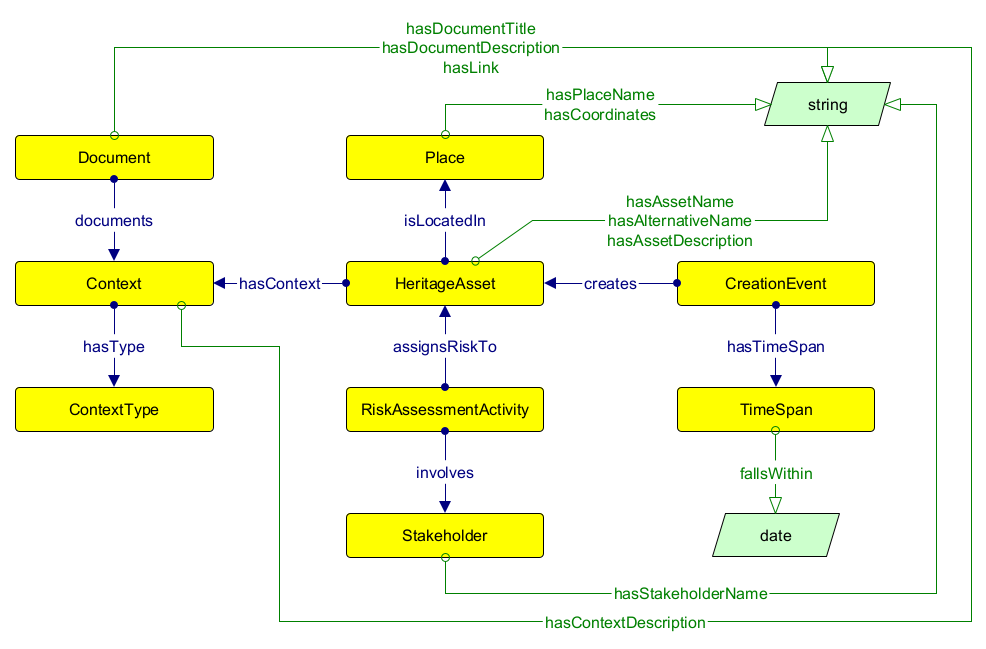
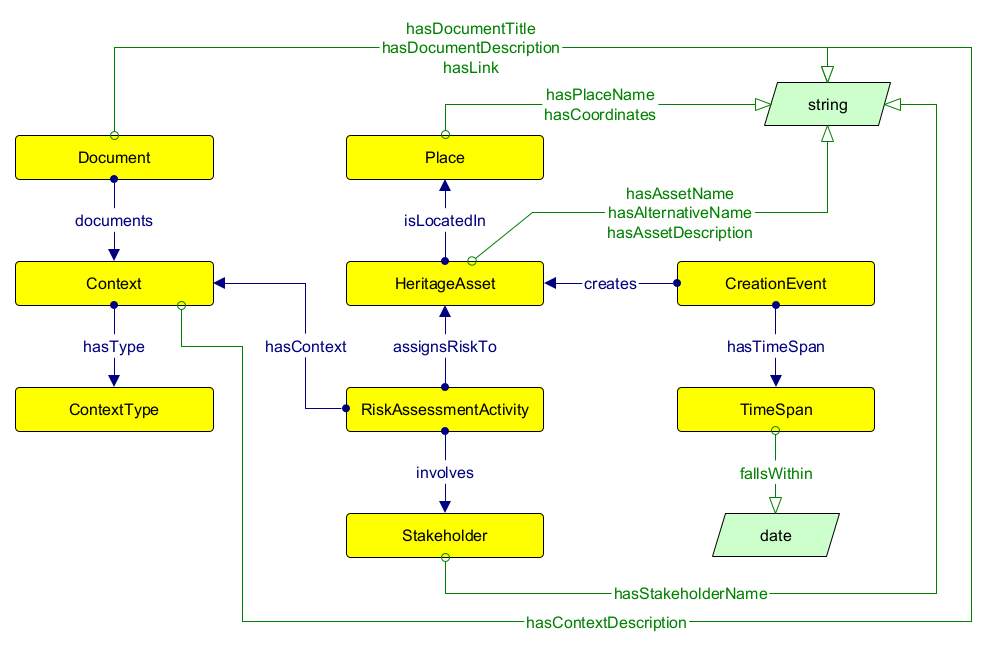
fix: fix glossary, modelet and readme

diff --git a/data_model/development/01/crosswalk.md b/data_model/development/01/crosswalk.md
@@ -1,42 +1,40 @@
-# Crosswalk
-
-|                       | **TBox term**            | **Refactored term**           | **Full URI**                                                     |
-|-----------------------|--------------------------|-------------------------------|------------------------------------------------------------------|
-| **Classes**           |                          |                               |                                                                  |
-|                       | `HeritageAsset`          | E24_Physical_Human-Made_Thing | http://www.cidoc-crm.org/cidoc-crm/E24_Physical_Human-Made_Thing |
-|                       | `Context`                |                               |                                                                  |
-|                       | `ContextType`            |                               |                                                                  |
-|                       | `Place`                  | E53_Place                     | http://www.cidoc-crm.org/cidoc-crm/E53_Place                     |
-|                       | `Stakeholder`            | E39_Actor                     | http://www.cidoc-crm.org/cidoc-crm/E39_Actor                     |
-|                       | `RiskAssessmentActivity` |                               |                                                                  |
-|                       | `TimeSpan`               | E52_Time-Span                 | http://www.cidoc-crm.org/cidoc-crm/E52_Time-Span                 |
-|                       | `Document`               | E31_Document                  | http://www.cidoc-crm.org/cidoc-crm/E31_Document                  |
-|                       | `CreationEvent`          | E12_Production                | http://www.cidoc-crm.org/cidoc-crm/E12_Production                |
-| **Object properties** |                          |                               |                                                                  |
-|                       | `hasContext`             |                               |                                                                  |
-|                       | `documents`              | P70_documents                 | http://www.cidoc-crm.org/cidoc-crm/P70_documents                 |
-|                       | `hasType`                | P2_has_type                   | http://www.cidoc-crm.org/cidoc-crm/P2_has_type                   |
-|                       | `assignsRiskTo`          |                               |                                                                  |
-|                       | `involves`               | P11_had_participant           | http://www.cidoc-crm.org/cidoc-crm/P11_had_participant           |
-|                       | `isLocatedIn`            | P55_has_current_location      | http://www.cidoc-crm.org/cidoc-crm/P55_has_current_location      |
-|                       | `creates`                | P108_has_produced             | http://www.cidoc-crm.org/cidoc-crm/P108_has_produced             |
-|                       | `hasTimeStamp`           | P4_has_time-span              | http://www.cidoc-crm.org/cidoc-crm/P4_has_time-span              |
-| **Data properties**   |                          |                               |                                                                  |
-|                       | `hasAssetName`           | title                         | http://purl.org/dc/terms/title                                   |
-|                       | `hasAlternativeName`     | alternative                   | http://purl.org/dc/terms/alternative                             |
-|                       | `hasAssetDescription`    | description                   | http://purl.org/dc/terms/description                             |
-|                       | `hasCoordinates`         | P168_place_is_defined_by      | http://www.cidoc-crm.org/cidoc-crm/P168_place_is_defined_by      |
-|                       | `fallsWithin`            | P82_at_some_time_within       | http://www.cidoc-crm.org/cidoc-crm/P82_at_some_time_within       |
-|                       | `hasTitle`               | title                         | http://purl.org/dc/terms/title                                   |
-|                       | `hasDocumentDescription` | description                   | http://purl.org/dc/terms/description                             |
-|                       | `hasPlaceName`           |                               |                                                                  |
-|                       | `hasStakehoderName`      | name                          | http://xmlns.com/foaf/0.1/name                                   |
-|                       | `hasLink`                | relation                      | http://purl.org/dc/terms/relation                                |
-|                       | `hasContextDescription`  | description                   | http://purl.org/dc/terms/description                             |
-| **Individuals**       |                          |                               |                                                                  |
-|                       | `physical`               |                               |                                                                  |
-|                       | `socio-cultural`         |                               |                                                                  |
-|                       | `political`              |                               |                                                                  |
-|                       | `legal`                  |                               |                                                                  |
-|                       | `administrative`         |                               |                                                                  |
-|                       | `economic`               |                               |                                                                  |
+|                       | **TBox term**            | **Model** | **Refactored term**           | **Full URI**                                                     |
+|-----------------------|--------------------------|-----------|-------------------------------|------------------------------------------------------------------|
+| **Classes**           |                          |           |                               |                                                                  |
+|                       | `HeritageAsset`          | CIDOC-CRM | E24_Physical_Human-Made_Thing | http://www.cidoc-crm.org/cidoc-crm/E24_Physical_Human-Made_Thing |
+|                       | `Context`                |           |                               |                                                                  |
+|                       | `ContextType`            |           |                               |                                                                  |
+|                       | `Place`                  | CIDOC-CRM | E53_Place                     | http://www.cidoc-crm.org/cidoc-crm/E53_Place                     |
+|                       | `Stakeholder`            | CIDOC-CRM | E39_Actor                     | http://www.cidoc-crm.org/cidoc-crm/E39_Actor                     |
+|                       | `RiskAssessmentActivity` |           |                               |                                                                  |
+|                       | `TimeSpan`               | CIDOC-CRM | E52_Time-Span                 | http://www.cidoc-crm.org/cidoc-crm/E52_Time-Span                 |
+|                       | `Document`               | CIDOC-CRM | E31_Document                  | http://www.cidoc-crm.org/cidoc-crm/E31_Document                  |
+|                       | `CreationEvent`          | CIDOC-CRM | E12_Production                | http://www.cidoc-crm.org/cidoc-crm/E12_Production                |
+| **Object properties** |                          |           |                               |                                                                  |
+|                       | `hasContext`             |           |                               |                                                                  |
+|                       | `documents`              | CIDOC-CRM | P70_documents                 | http://www.cidoc-crm.org/cidoc-crm/P70_documents                 |
+|                       | `hasType`                | CIDOC-CRM | P2_has_type                   | http://www.cidoc-crm.org/cidoc-crm/P2_has_type                   |
+|                       | `assignsRiskTo`          |           |                               |                                                                  |
+|                       | `involves`               | CIDOC-CRM | P11_had_participant           | http://www.cidoc-crm.org/cidoc-crm/P11_had_participant           |
+|                       | `isLocatedIn`            | CIDOC-CRM | P55_has_current_location      | http://www.cidoc-crm.org/cidoc-crm/P55_has_current_location      |
+|                       | `creates`                | CIDOC-CRM | P108_has_produced             | http://www.cidoc-crm.org/cidoc-crm/P108_has_produced             |
+|                       | `hasTimeStamp`           | CIDOC-CRM | P4_has_time-span              | http://www.cidoc-crm.org/cidoc-crm/P4_has_time-span              |
+| **Data properties**   |                          |           |                               |                                                                  |
+|                       | `hasAssetName`           | DCTerms   | title                         | http://purl.org/dc/terms/title                                   |
+|                       | `hasAlternativeName`     | DCTerms   | alternative                   | http://purl.org/dc/terms/alternative                             |
+|                       | `hasAssetDescription`    | DCTerms   | description                   | http://purl.org/dc/terms/description                             |
+|                       | `hasCoordinates`         | CIDOC-CRM | P168_place_is_defined_by      | http://www.cidoc-crm.org/cidoc-crm/P168_place_is_defined_by      |
+|                       | `fallsWithin`            | CIDOC-CRM | P82_at_some_time_within       | http://www.cidoc-crm.org/cidoc-crm/P82_at_some_time_within       |
+|                       | `hasTitle`               | DCTerms   | title                         | http://purl.org/dc/terms/title                                   |
+|                       | `hasDocumentDescription` | DCTerms   | description                   | http://purl.org/dc/terms/description                             |
+|                       | `hasPlaceName`           |           |                               |                                                                  |
+|                       | `hasStakehoderName`      | FOAF      | name                          | http://xmlns.com/foaf/0.1/name                                   |
+|                       | `hasLink`                | DCTerms   | relation                      | http://purl.org/dc/terms/relation                                |
+|                       | `hasContextDescription`  | DCTerms   | description                   | http://purl.org/dc/terms/description                             |
+| **Individuals**       |                          |           |                               |                                                                  |
+|                       | `physical`               |           |                               |                                                                  |
+|                       | `socio-cultural`         |           |                               |                                                                  |
+|                       | `political`              |           |                               |                                                                  |
+|                       | `legal`                  |           |                               |                                                                  |
+|                       | `administrative`         |           |                               |                                                                  |
+|                       | `economic`               |           |                               |                                                                  |

diff --git a/data_model/development/01/glossary.md b/data_model/development/01/glossary.md
@@ -2,7 +2,7 @@
 |-----------------------|--------------------------|-------------------------------------------------------------------------------------------------------------------------------------------------------------------------------------------------------------------------------|
 | **Classes**           |                          |                                                                                                                                                                                                                               |
 |                       | `HeritageAsset`          | A heritage asset is a physical or tangible item, structure, site, or object that holds historical, cultural, architectural, archaeological, or artistic significance and is considered worthy of preservation and protection. |
-|                       | `Context`                | The context in which a heritage asset is situated.                                                                                                                                                                            |
+|                       | `Context`                | The context in which a risk assessment activity for a heritage asset is situated.                                                                                                                                                                            |
 |                       | `ContextType`            | The type of a context.                                                                                                                                                                                                        |
 |                       | `Place`                  | A location in physical space.                                                                                                                                                                                                 |
 |                       | `Stakeholder`            | An individual or group of individuals involved in a risk assessment activity.                                                                                                                                                 |
@@ -11,7 +11,7 @@
 |                       | `Document`               | An informational object that documents a context.                                                                                                                                                                             |
 |                       | `CreationEvent`          | A situation that resulted in the creation of a heritage asset.                                                                                                                                                                |
 | **Object properties** |                          |                                                                                                                                                                                                                               |
-|                       | `hasContext`             | A property that links a heritage asset to a context.                                                                                                                                                                          |
+|                       | `hasContext`             | A property that links a risk assessment activity to a context.                                                                                                                                                                          |
 |                       | `documents`              | A property that links a document to a context.                                                                                                                                                                                |
 |                       | `hasType`                | A property that links a context to a context type.                                                                                                                                                                            |
 |                       | `assignsRiskTo`          | A property that links a risk assessment activity to a heritage asset.                                                                                                                                                         |
@@ -36,5 +36,5 @@
 |                       | `socio-cultural`         | A type of context involving the socio-cultural environment of the heritage asset.                                                                                                                                             |
 |                       | `political`              | A type of context involving the political environment of the heritage asset.                                                                                                                                                  |
 |                       | `legal`                  | A type of context involving the legal environment of the heritage asset.                                                                                                                                                      |
-|                       | `administrative`         | A type of context involving the aadministrative environment of the heritage asset.                                                                                                                                            |
+|                       | `administrative`         | A type of context involving the administrative environment of the heritage asset.                                                                                                                                            |
 |                       | `economic`               | A type of context involving the economic environment of the heritage asset.                                                                                                                                                   |

diff --git a/data_model/README.md b/data_model/README.md
@@ -1,19 +1,21 @@
 # SIRIUS Data Model
 
 ## Description
-SIRIUS Data Model is an ontological model that is used to structure the knowledge graph storing the data used in the SIRIUS web platform. It has been developed by using the Simplified Agile Methodology for Ontology Development (Peroni, S. (2016). SAMOD: an agile methodology for the development of ontologies. figshare. http://dx.doi.org/10.6084/m9.figshare.3189769).
+SIRIUS Data Model is an ontological model that is used to structure the knowledge graph storing the data used in the SIRIUS web platform. It has been developed by using the **Simplified Agile Methodology for Ontology Development (SAMOD)**: 
+
+    Peroni, S. (2016). SAMOD: an agile methodology for the development of ontologies. figshare. http://dx.doi.org/10.6084/m9.figshare.3189769
 
 This repository contains the full documentation produced during the development of the data model. In particular:
 * the `data` directory contains the full set of refactored *ABoxes*, one for each iteration, written in the Turtle RDF serialization;
 * the `development` directory contains a folder per development iteration, each containing a full test case with:
     - a **motivating scenario**, which defines the scope of the single iteration, along with some examples;
     - a list of **informal Competency Questions**, written in natural language;
-    - a **glossary of terms**, which defines a set of meaningful words and expressions collected from the scenario and the competency questions;
-    - a Graffoo **visual diagram** of the model in .png format, along with its .graphml file;
+    - a **glossary of terms**, which defines a set of meaningful words and expressions - representing possible entities and relationships - collected from the scenario and the competency questions;
+    - a Graffoo **visual diagram** of the entites and relationships recorded in the glossary, rendered in .png format and coupled with the .graphml file it has been exported from;
     - a **terminology component** (*TBox*), which defines a formal schema based on the diagram;
     - an **assertion component** (*ABox*), which organizes the examples data according to the schema;
     - a list of **formal Competency Questions**, which reformulate the informal competency questions into proper SPARQL queries;
-    - a **testing notebook**, which is used to text the SPARQL queries against the TBox and ABox;
+    - a **testing notebook**, which is used to test the SPARQL queries against both the TBox and the ABox;
     - a **crosswalk table**, which bridges the development step with the refactoring step by documenting the alignment between the glossary terms and the refactored terms.
 * the `diagrams` directory contains the full set of Graffoo diagrams representing the refactored model of each iteration;
 * the `docs` directory contains the full set of files related to the final model and its versions in time;
